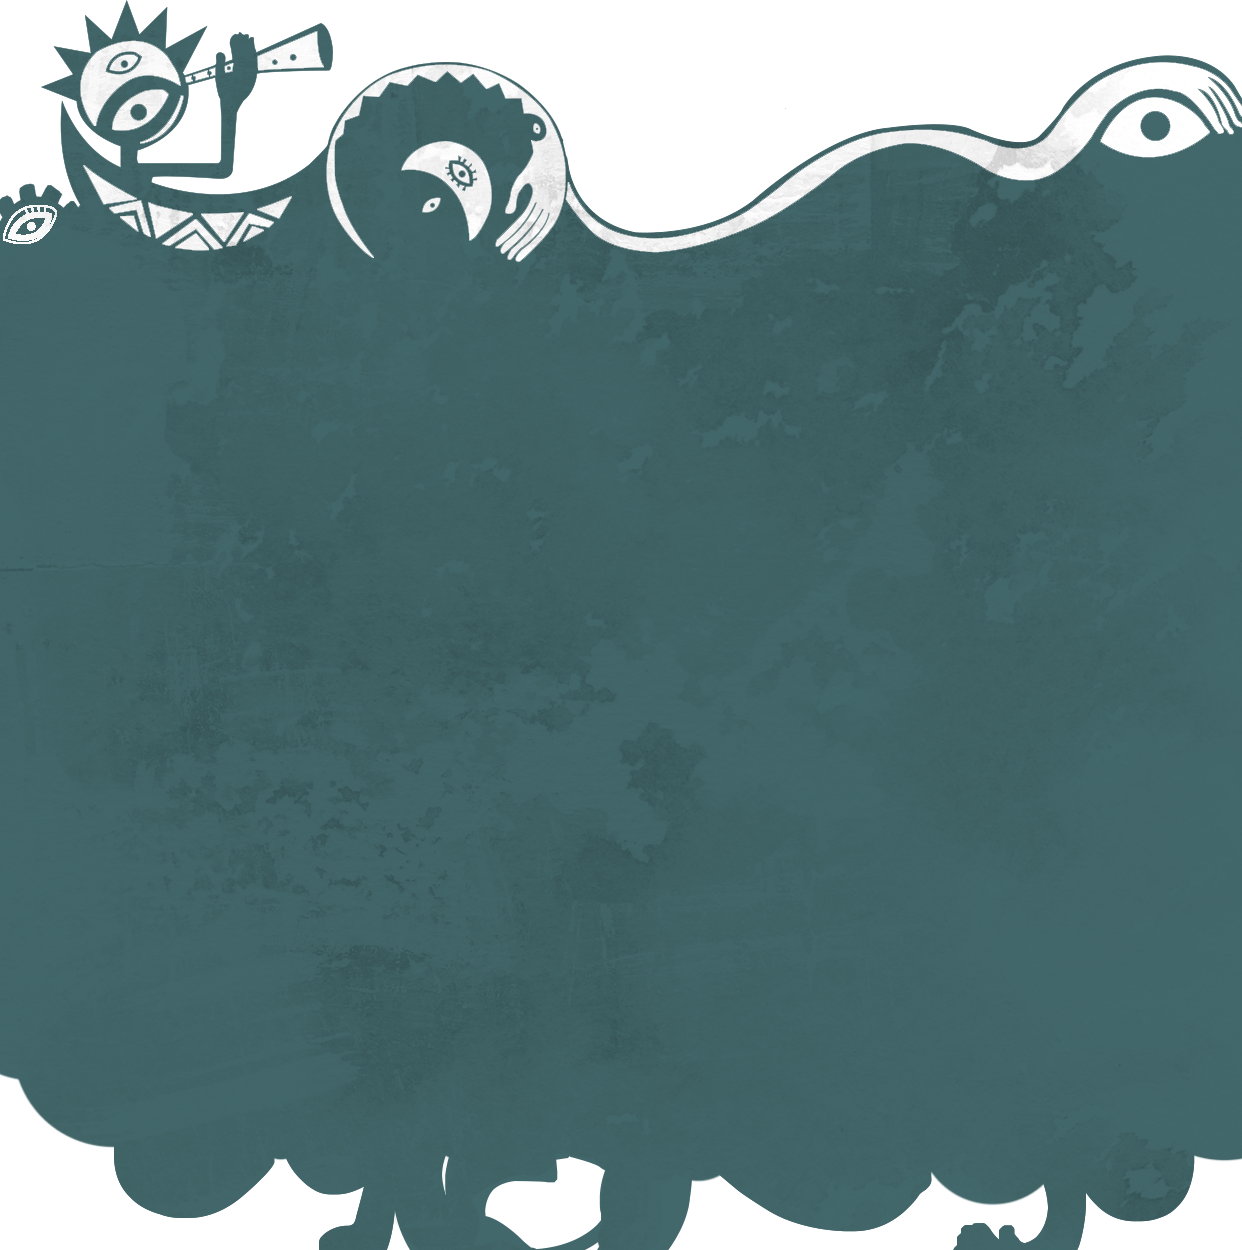
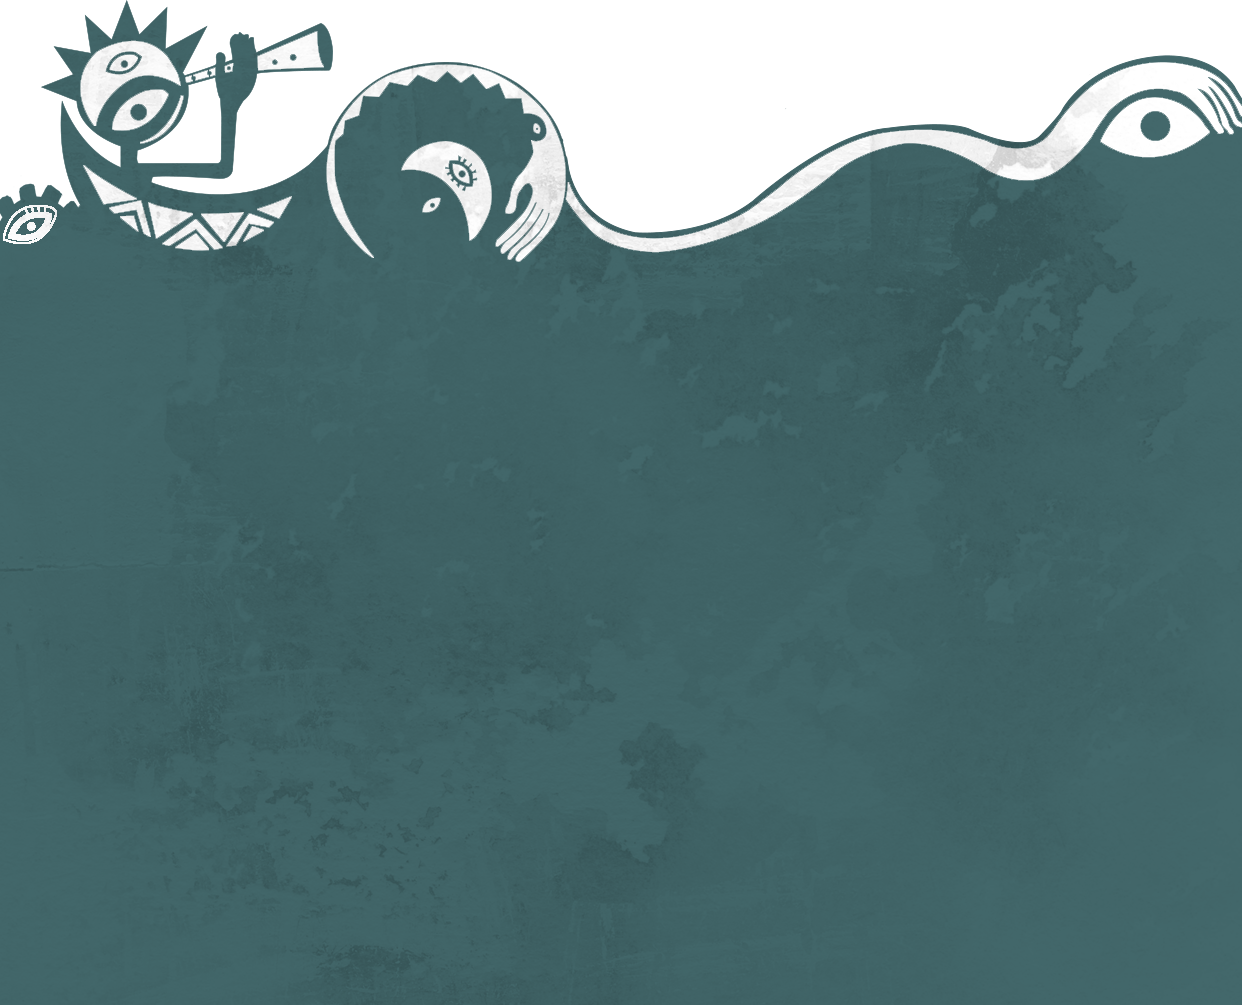
improved homepage design

diff --git a/mobile/src/index.html b/mobile/src/index.html
@@ -3,7 +3,7 @@
 
 <head>
 	<meta charset="UTF-8">
-	<title>Ionic App</title>
+	<title>Cairo Jazz Club</title>
 	<meta name="viewport" content="width=device-width, initial-scale=1.0, minimum-scale=1.0, maximum-scale=1.0, user-scalable=no">
 	<meta name="format-detection" content="telephone=no">
 	<meta name="msapplication-tap-highlight" content="no">

diff --git a/mobile/src/pages/home/home.html b/mobile/src/pages/home/home.html
@@ -16,13 +16,7 @@
 			</ion-col>
 		</ion-row>
 
-		<ion-row>
-			<ion-col text-center>
-				<img src="assets/img/BG.png" />
-			</ion-col>
-		</ion-row>
-
-		<ion-row center>
+		<ion-row center class="artists-parallex">
 			<ion-col text-center>
 				<div class="events-slider">
 					<div *ngFor="let event of events; let last = last">

diff --git a/mobile/src/pages/home/home.scss b/mobile/src/pages/home/home.scss
@@ -5,6 +5,15 @@ page-home {
 		flex-direction: column;
 	}
 
+	.artists-parallex {
+	    background: url("../assets/img/BG.png");
+		background-size: cover;
+		background-repeat: no-repeat;
+		padding-top: 100px;
+		margin-top: -30px;
+		z-index: 2;
+	}
+
 	ion-grid {
 		padding: 0;
 		height: 100%;
